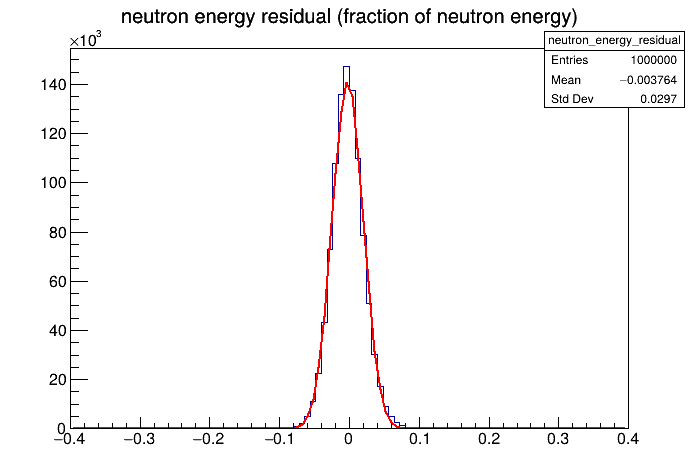
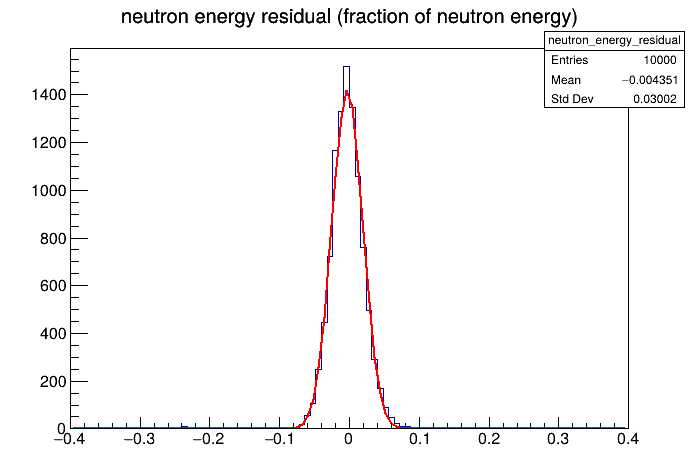
Added a model prediction tester.

diff --git a/NetworkingTesting.py b/NetworkingTesting.py
@@ -1,0 +1,71 @@
+import pandas as pd
+import tensorflow as tf
+import matplotlib.pyplot as plt
+import numpy as np
+from decimal import Decimal
+import scipy as sp 
+from scipy.optimize import curve_fit
+
+plt.rcParams.update({'font.size': 16})
+
+bestModel1 = tf.keras.models.load_model("BestModel1.keras")
+bestModel2 = tf.keras.models.load_model("BestModel2.keras")
+worstModel1 = tf.keras.models.load_model("WorstModel1.keras")
+worstModel2 = tf.keras.models.load_model("WorstModel2.keras")
+
+# Reading in truth and reconstructed data
+recoilData = pd.read_csv("TestingData.csv", header=None)
+
+recoilData = recoilData.drop(60, axis=1)
+
+prediction1 = bestModel1.predict(recoilData)
+prediction2 = bestModel2.predict(recoilData)
+prediction3 = worstModel1.predict(recoilData)
+prediction4 = worstModel2.predict(recoilData)
+
+prediction1 = (prediction1.ravel()) * 5
+prediction2 = (prediction2.ravel()) * 5
+prediction3 = (prediction3.ravel()) * 5
+prediction4 = (prediction4.ravel()) * 5
+
+# Define the Gaussian function
+def gaussian(x, mu, sigma, amp):
+    return amp * np.exp(-((x - mu) ** 2) / (2 * sigma ** 2))
+
+bins = 50
+
+# Plotting
+plt.figure(1)
+hist, binning, _ = plt.hist(prediction1, bins, color='green')
+# Fit the Gaussian curve to the histogram
+popt, pcov = curve_fit(gaussian, binning[:-1], hist, p0=[1, 2, 1], maxfev=50000)
+print(popt)
+
+# Plot the fitted curve
+x = np.linspace(0,3, 100)
+#plt.plot(x, gaussian(x, *popt), color='red', linewidth=2)
+plt.title("Neural Network Performance")
+plt.xlabel("Predicted Energy (MeV)")
+plt.ylabel("Counts")
+plt.savefig("model1.png", bbox_inches='tight')
+
+plt.figure(2)
+plt.hist(prediction2, bins, color='green')
+plt.title("Neural Network Performance")
+plt.xlabel("Predicted Energy (MeV)")
+plt.ylabel("Counts")
+plt.savefig("model2.png", bbox_inches='tight')
+
+plt.figure(3)
+plt.hist(prediction3, bins, color='green')
+plt.title("Neural Network Performance")
+plt.xlabel("Predicted Energy (MeV)")
+plt.ylabel("Counts")
+plt.savefig("model3.png", bbox_inches='tight')
+
+plt.figure(4)
+plt.hist(prediction4, bins, color='green')
+plt.title("Neural Network Performance")
+plt.xlabel("Predicted Energy (MeV)")
+plt.ylabel("Counts")
+plt.savefig("model4.png", bbox_inches='tight')

diff --git a/neutrons.py b/neutrons.py
@@ -46,11 +46,11 @@ def Style():
 def main():
 
     # Style()
-    iterations = 1000000  # number of measurements used to estimate resolution
+    iterations = 10000  # number of measurements used to estimate resolution
     c1 = TCanvas("Results")
     random_engine = TRandom3()
 
-    neutron_energies = [1.0, 3.0, 5.0]  # [1.0, 3.0, 5.0] neutron beam kinetic energy [MeV]
+    neutron_energies = [1.0]  # [1.0, 3.0, 5.0] neutron beam kinetic energy [MeV]
     n_neutrons_detected = [20]  # [10,15,20,50,100]
     gas = ["Propane"]
 
@@ -204,7 +204,7 @@ def main():
     recoilArrayReshaped = recoilArray.reshape(recoilArray.shape[0], -1)
 
     np.savetxt(
-        "OutputData.csv",
+        "TestingData.csv",
         recoilArrayReshaped,
         delimiter=",",
         newline="\n",
